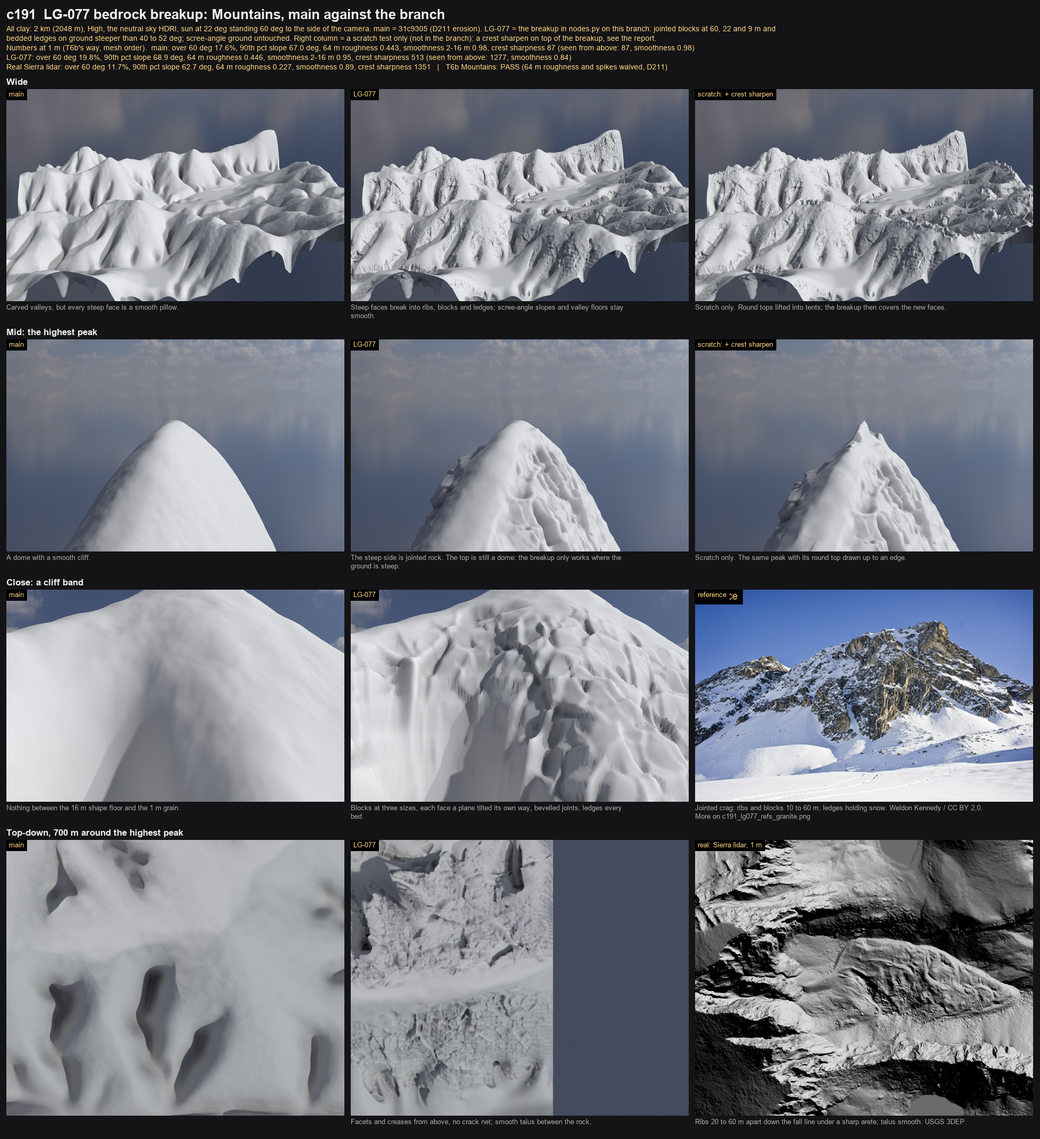
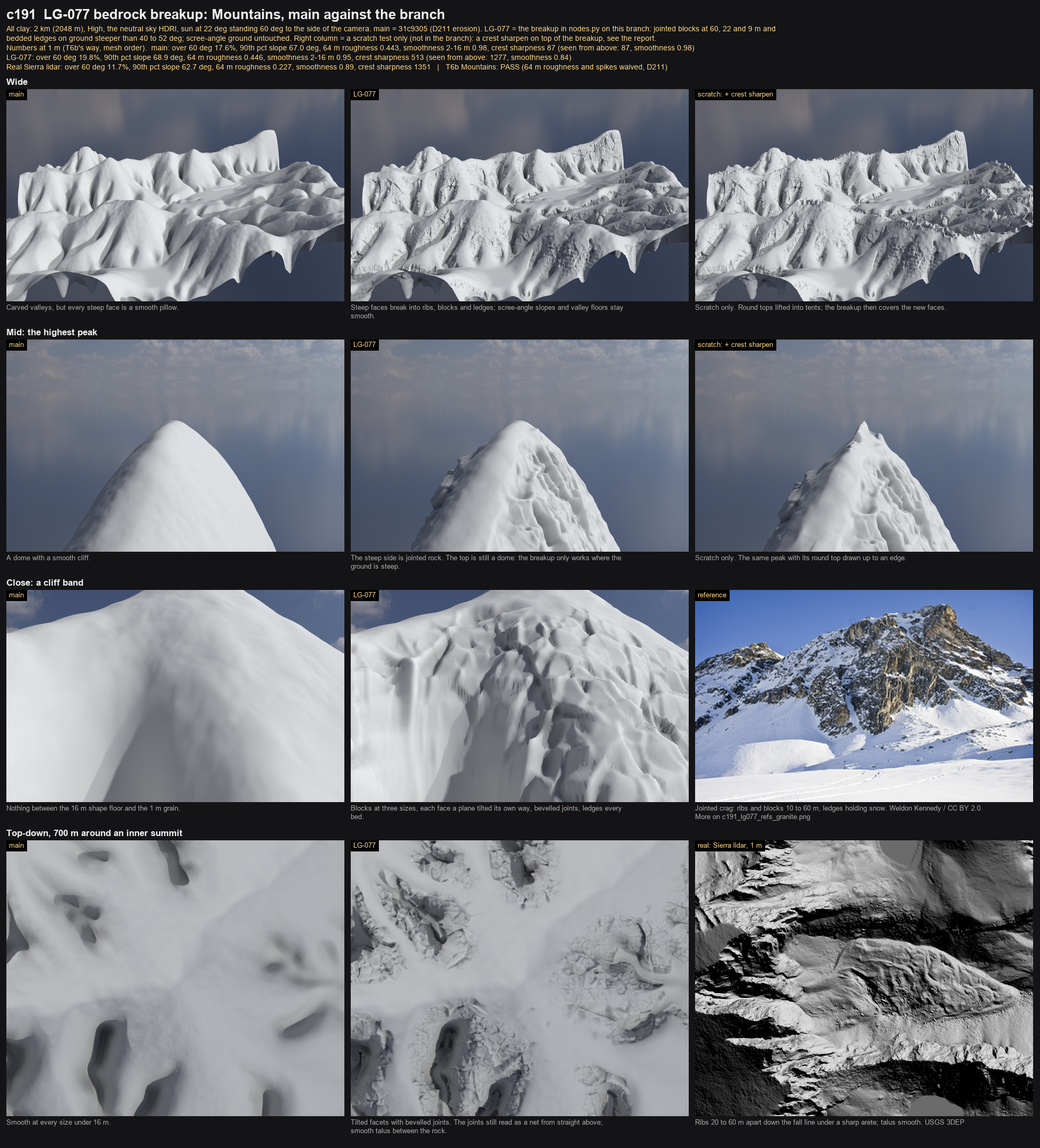
LG-077 cp1: breakup test renumbered T43 (LG-078 owns T42), board c191 top-down tile framed on an inner summit

diff --git a/tests/run_tests.py b/tests/run_tests.py
@@ -1634,8 +1634,8 @@ def _t41():
         out.append(f"{est:,} vs {real:,}")
     return "; ".join(out)
 
-@test("T42", "Bedrock breakup: steep rock breaks into blocks, scree-angle ground stays smooth")
-def _t42():
+@test("T43", "Bedrock breakup: steep rock breaks into blocks, scree-angle ground stays smooth")
+def _t43():
     # LG-077 (review S4): jointed blocks and bedded ledges where Mountains are steeper than scree can lie (34 to 46 deg
     # and up); gentler ground is left alone, no points are added, and the erosion engine never sees it.
     fresh_scene()

diff --git a/docs/tickets/LG-077-bedrock-breakup.md b/docs/tickets/LG-077-bedrock-breakup.md
@@ -31,7 +31,7 @@ Also read docs/tickets/README.md (rules every ticket follows) and docs/CODING.md
 ## Log
 - 2026-11-11 created from the realism review (D209)
 - 2026-11-12 Mike picked incision 1.8 (LG-076) and asked for sharp mountain tops: added to Done when
-- 2026-11-14 checkpoint 1 (Fable 5.2, branch lg-077-breakup): breakup built in `nodes.py` on Mountains, after the erosion blend. Blocks at 60, 22 and 9 m (3D smooth cells, each face a tilted plane, bevelled joints), bedded ledges, pushed along the normal; inputs Breakup, Block Size, Bed Thickness, Bed Dip from `types.json` (Mountains 1.0 / 60 m / 14 m / 4 deg), sizes shrink together under 1/32 of the width. GROUP_VERSION 145, library rebuilt, T42 added. Boards `docs/realism/c191_lg077_mountains.png` and `c191_lg077_refs_granite|limestone|sandstone.png`
+- 2026-11-14 checkpoint 1 (Fable 5.2, branch lg-077-breakup): breakup built in `nodes.py` on Mountains, after the erosion blend. Blocks at 60, 22 and 9 m (3D smooth cells, each face a tilted plane, bevelled joints), bedded ledges, pushed along the normal; inputs Breakup, Block Size, Bed Thickness, Bed Dip from `types.json` (Mountains 1.0 / 60 m / 14 m / 4 deg), sizes shrink together under 1/32 of the width. GROUP_VERSION 145, library rebuilt, T43 added. Boards `docs/realism/c191_lg077_mountains.png` and `c191_lg077_refs_granite|limestone|sandstone.png`
 - 2026-11-14 counted before fixing: the review's 34-46 deg mask covered 64% of the D211 Mountains (Sierra lidar: 22% over 46 deg), so the mask is 40-52 deg. Hard steps between blocks left 470 edges over 15 m (combs) on the 2 km High mesh; smooth cells left 7. About 2% of faces still lean past vertical where blocks push out of steep walls
 - 2026-11-14 numbers, 2 km High, T6b's way (main -> branch, real Sierra): over 60 deg 17.6 -> 19.8% (11.7); 64 m roughness 0.443 -> 0.446 (0.227, waived D211); smoothness 2-16 m 0.98 -> 0.95 (0.89); crest sharpness 87 -> 513 (1351; the review's 38 was before D211). Seen from above (points binned back to a grid): smoothness 0.84, crest 1277. T6b Mountains PASS. Build at High 21.8 -> 23.9 s, re-evaluation 5.1 -> 7.0 s
 - 2026-11-14 sharp summits: NOT reached by the breakup. It only works where the ground is steep, and a dome top is flat. Scratch test on the board (right column, not in the branch): a crest sharpen, lift = (Rc / 2) x (s0 - slope)^2 on high convex ground, slope from the normal and convexity from 4 extra reads of the erosion map. It turns round tops into edges and points but leaves small spikes along ridges. Needs its own ticket or a place in LG-079; Mike decides
